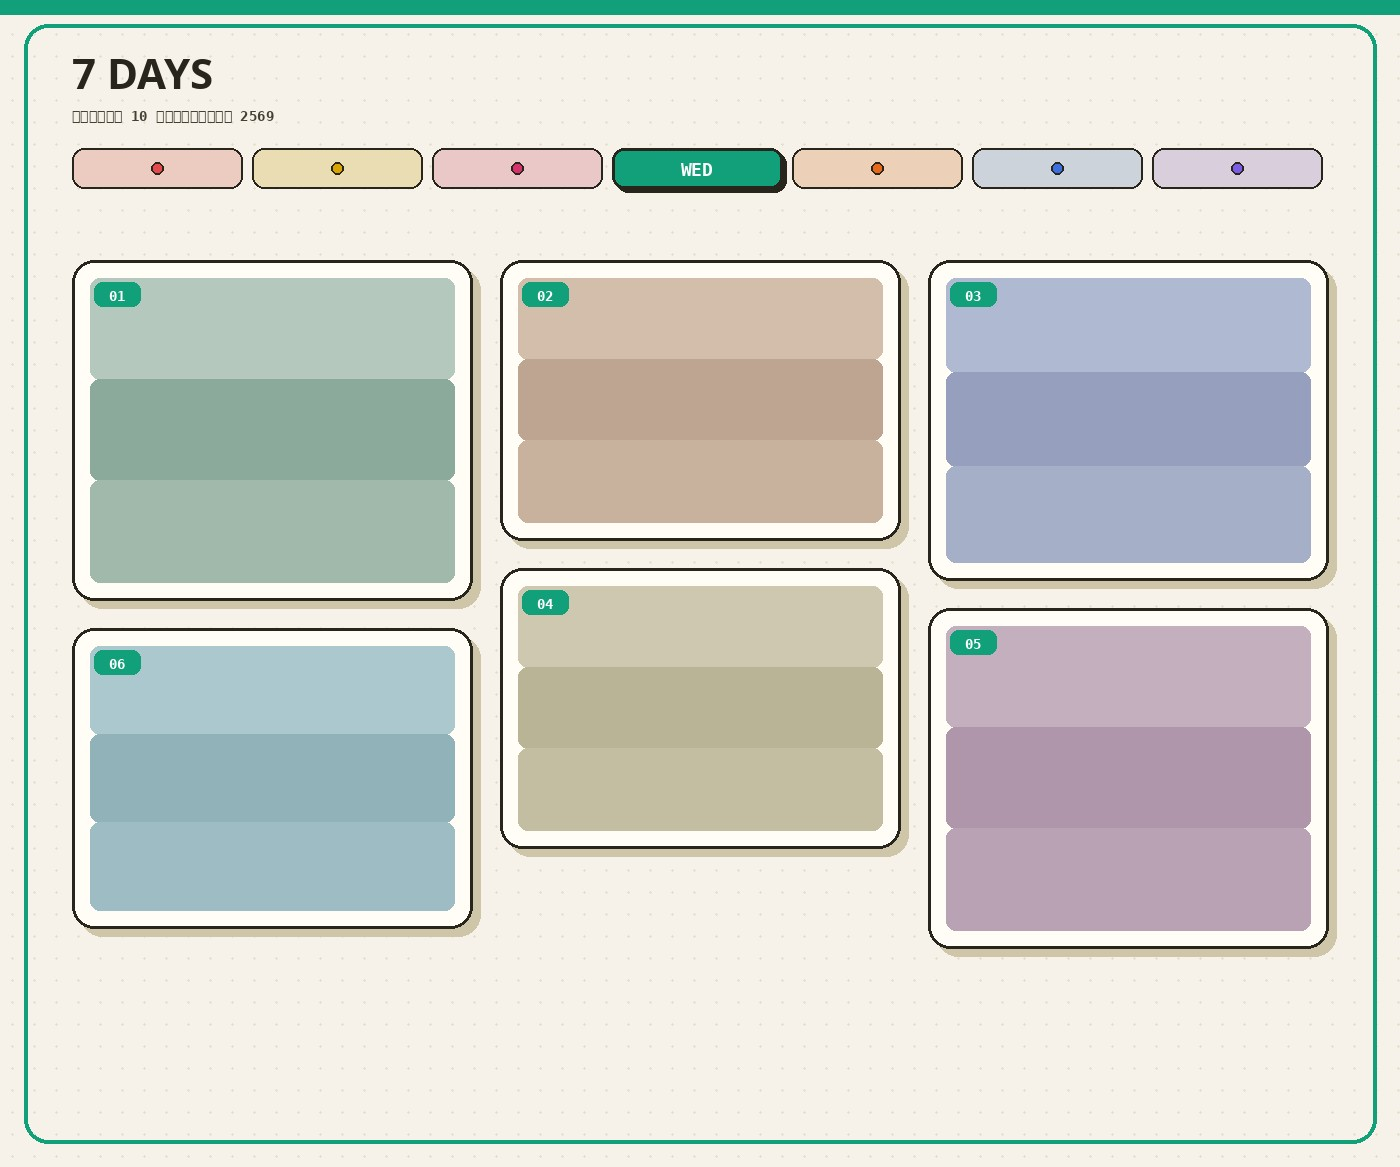
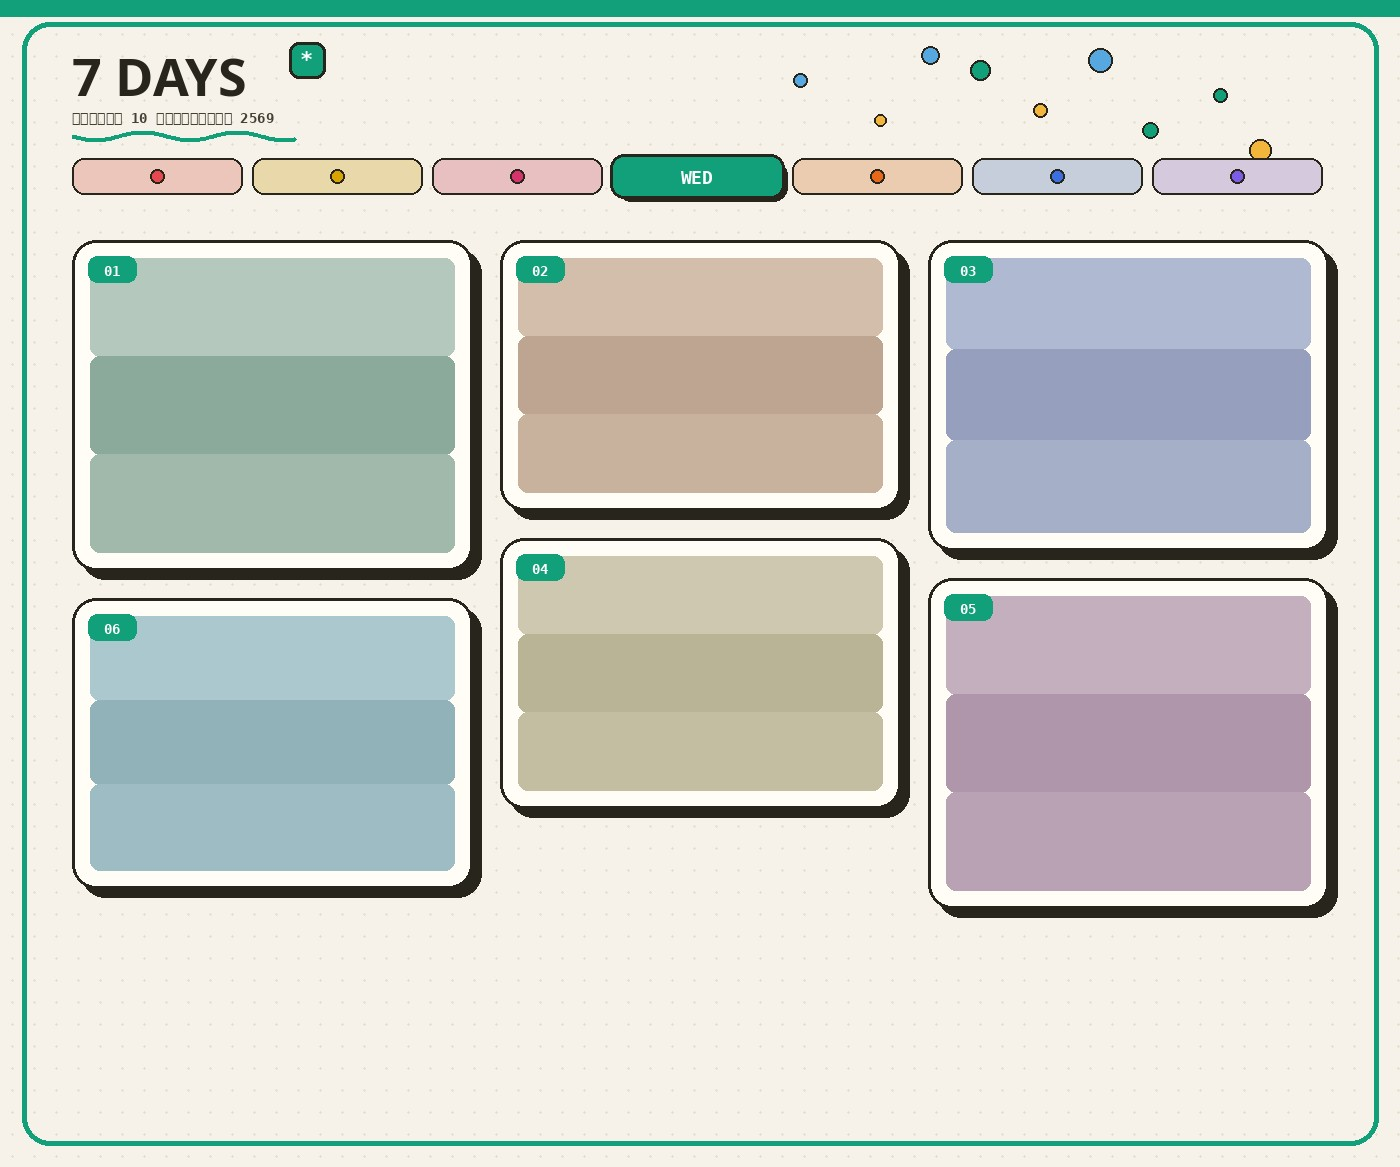
Make 7 DAYS collage theme more playful V5

diff --git a/web/src/lib/collage/render.ts b/web/src/lib/collage/render.ts
@@ -467,8 +467,6 @@ async function renderThemed(
 			color: hexToRgba(ink, 0.9),
 			align,
 			glow,
-			// tight tracking is what makes the display face read like a system
-			// UI font instead of a wide book face
 			tracking: `${(-nameSize * 0.012).toFixed(2)}px`,
 		});
 	}
@@ -480,6 +478,53 @@ async function renderThemed(
 			color: hexToRgba(ink, 0.8),
 			align,
 			tracking: `${(-dateSize * 0.008).toFixed(2)}px`,
+		});
+	}
+
+	// 7days V5: playful header marks (asterisk sticker, squiggle, confetti in day accent)
+	if (isV5Week && presetStops) {
+		const accent = presetStops[1];
+		const titleY = Math.round(HEADER_H * (hasBoth ? 0.47 : 0.55));
+		// asterisk sticker
+		ctx.save();
+		ctx.translate(margin + 210, titleY - 48);
+		ctx.rotate((-8 * Math.PI) / 180);
+		fillRoundRect(ctx, -18, -18, 36, 36, 10, accent);
+		strokeRoundRect(ctx, -18, -18, 36, 36, 10, '#28251d', 3);
+		ctx.fillStyle = contrastTextOn(accent);
+		ctx.font = `700 26px ${FONT_MONO}`;
+		ctx.textAlign = 'center';
+		ctx.textBaseline = 'middle';
+		ctx.fillText('✳', 0, 1);
+		ctx.restore();
+		// squiggle under date
+		const sy = Math.round(HEADER_H * (hasBoth ? 0.78 : 0.55)) + 12;
+		ctx.save();
+		ctx.strokeStyle = accent;
+		ctx.lineWidth = 5;
+		ctx.lineCap = 'round';
+		ctx.beginPath();
+		for (let i = 0; i <= 140; i++) {
+			const px = margin + i * 1.6;
+			const py = sy + Math.sin(i / 10) * 4;
+			if (i === 0) ctx.moveTo(px, py); else ctx.lineTo(px, py);
+		}
+		ctx.stroke();
+		ctx.restore();
+		// confetti dots in the header area
+		const dots = [
+			[W - 420, 70, 10], [W - 360, 110, 7], [W - 300, 60, 12], [W - 250, 130, 8],
+			[W - 520, 120, 6], [W - 470, 55, 9], [W - 180, 95, 7], [W - 140, 150, 11],
+			[W - 600, 80, 7], [W - 560, 140, 5],
+		];
+		dots.forEach(([dx, dy, r], i) => {
+			ctx.beginPath();
+			ctx.arc(dx, dy, r, 0, Math.PI * 2);
+			ctx.fillStyle = i % 3 === 0 ? accent : i % 3 === 1 ? '#f2b63d' : '#57a7e0';
+			ctx.fill();
+			ctx.lineWidth = 2;
+			ctx.strokeStyle = '#28251d';
+			ctx.stroke();
 		});
 	}
 
@@ -568,23 +613,26 @@ async function renderThemed(
 				const colors = DAY_PRESETS[key];
 				const active = key === preset;
 				const x = margin + i * (chipW + gap);
-				const fill = active ? colors[1] : hexToRgba(colors[1], 0.18);
+				const fill = active ? colors[1] : hexToRgba(colors[1], 0.22);
 				const inkColor = active ? contrastTextOn(colors[1]) : colors[0];
 				if (active) {
-					// hard offset shadow
-					fillRoundRect(ctx, x + 4, y + 4, chipW, chipH, 12, '#28251d');
-				}
-				fillRoundRect(ctx, x, y, chipW, chipH, 12, fill);
-				strokeRoundRect(ctx, x, y, chipW, chipH, 12, '#28251d', active ? 3 : 2);
-				if (active) {
+					ctx.save();
+					ctx.translate(x + chipW / 2, y + chipH / 2);
+					ctx.rotate((-4 * Math.PI) / 180);
+					ctx.translate(-(x + chipW / 2), -(y + chipH / 2));
+					fillRoundRect(ctx, x + 5, y + 5, chipW, chipH, 14, '#28251d');
+					fillRoundRect(ctx, x, y, chipW, chipH, 14, fill);
+					strokeRoundRect(ctx, x, y, chipW, chipH, 14, '#28251d', 3);
 					const size = 17;
 					drawText(ctx, DAY_SHORT[key], x + chipW / 2, y + Math.round(chipH / 2 + size * 0.35), {
 						size, font: 'mono', color: inkColor, align: 'center',
 					});
+					ctx.restore();
 				} else {
-					// small day dot for inactive chips
+					fillRoundRect(ctx, x, y + 2, chipW, chipH - 4, 12, fill);
+					strokeRoundRect(ctx, x, y + 2, chipW, chipH - 4, 12, '#28251d', 2);
 					ctx.beginPath();
-					ctx.arc(x + chipW / 2, y + chipH / 2, 6, 0, Math.PI * 2);
+					ctx.arc(x + chipW / 2, y + chipH / 2, 7, 0, Math.PI * 2);
 					ctx.fillStyle = colors[1];
 					ctx.fill();
 					ctx.strokeStyle = '#28251d';

diff --git a/web/src/lib/collage/themes.ts b/web/src/lib/collage/themes.ts
@@ -179,16 +179,16 @@ export const THEMES = {
 		canvas: {
 			bg: '#f6f2e9',
 			cell: {
-				backplate: { dx: 8, dy: 8, rounded: 22, fill: '#cfc5a9' },
-				border: '#28251d', width: 3, rounded: 22, bg: '#fffdf6', shadow: 0.04,
+				backplate: { dx: 9, dy: 9, rounded: 24, fill: '#28251d' },
+				border: '#28251d', width: 3, rounded: 24, bg: '#fffdf6', shadow: 0,
 				label: '{n}', labelColor: '#fffdf6', labelBg: '#28251d',
-				labelSize: 16, labelHeight: 24, labelPad: 10,
-				labelPosition: 'top-left', labelInset: 4, labelRounded: 8,
+				labelSize: 17, labelHeight: 26, labelPad: 11,
+				labelPosition: 'top-left', labelInset: -2, labelRounded: 9,
 			},
 			header: {
-				text: '7 DAYS', color: '#28251d', font: 'display', size: 44, pad: 84, glow: false,
+				text: '7 DAYS', color: '#28251d', font: 'display', size: 52, pad: 84, glow: false,
 				align: 'left', margin: 120, ink: '#28251d',
-				stripe: '#158068', stripeHeight: 14, stripePos: 'top',
+				stripe: '#158068', stripeHeight: 16, stripePos: 'top',
 				presetHeader: false,
 			},
 			// day strip is drawn with a custom V5 treatment in the renderer
@@ -197,9 +197,9 @@ export const THEMES = {
 				inactiveOpacity: 0.38, label: true, labelSize: 18,
 			},
 			overlay: 'none',
-			photoFx: 'none',
+			photoFx: 'saturate(1.06) contrast(1.02)',
 			chrome: {
-				frame: { inset: 24, width: 3, color: '#28251d', opacity: 1, rounded: 24 },
+				frame: { inset: 22, width: 4, color: '#28251d', opacity: 1, rounded: 28 },
 			},
 		},
 	},
